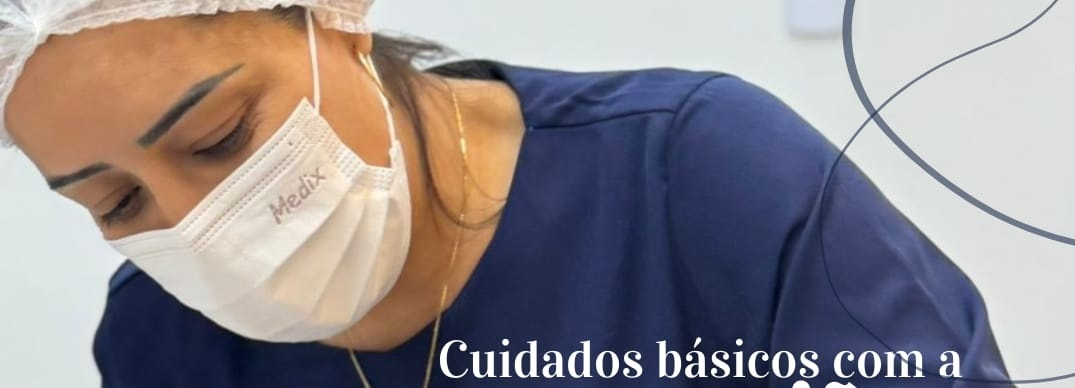
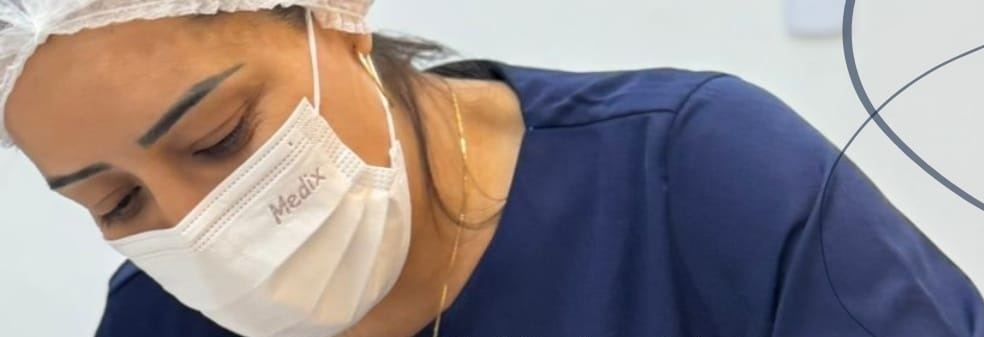
site Paula
versão final

diff --git a/index.html b/index.html
@@ -3,9 +3,21 @@
 <head>
     <meta charset="UTF-8">
     <meta name="viewport" content="width=device-width, initial-scale=1.0">
-    <title>Dra. Paula Apóstulo | Estética Facial e Íntima em Campo Grande, RJ</title>
+    <title>Dra. Paula Apóstulo | Estética Íntima e Facial em Campo Grande, RJ</title>
+    <link rel="apple-touch-icon" sizes="180x180" href="apple-touch-icon.png">
+    <link rel="icon" type="image/png" sizes="32x32" href="favicon-32x32.png">
+    <link rel="icon" type="image/png" sizes="16x16" href="favicon-16x16.png">
+    <link rel="manifest" href="site.webmanifest">
+    <link rel="shortcut icon" href="favicon.ico">
     
-    <meta name="description" content="Especialista em Estética Facial e Íntima em Campo Grande, RJ. Ninfoplastia sem cortes, Botox e rejuvenescimento. Agende com a Dra. Paula Apóstulo.">
+    <meta name="description" content="Especialista em Ninfoplastia sem cortes, Botox e Rejuvenescimento Íntimo em Campo Grande, RJ. Recupere sua autoestima com atendimento premium e resultados naturais.">
+    <meta name="keywords" content="Ninfoplastia Campo Grande RJ, Estética Íntima Feminina, Botox Campo Grande, Dra Paula Apostulo, Aplicação de Enzima para Redução de Gordura, Rejuvenescimento Facial RJ">
+
+    <meta property="og:title" content="Dra. Paula Apóstulo | Estética de Alta Performance">
+    <meta property="og:description" content="Especialista em Estética Facial e Íntima. Agende sua avaliação em Campo Grande, RJ.">
+    <meta property="og:image" content="logo-paula.jpg">
+    <meta property="og:url" content="https://paulaapostulo.com.br">
+    <meta property="og:type" content="website">
     
     <style>
         :root {
@@ -190,19 +202,28 @@
 
         /* HERO */
         .hero {
-            height: 83vh;
+
             background: var(--secondary-color);
             display: flex;
             align-items: center;
             justify-content: center;
             text-align: center;
             color: var(--primary-color);
-            padding: 0 5%;
+            padding: 0 0.5%;
+            padding-bottom: 66px;
+            padding-top: 25px;
         }
         .hero-content p { font-size: 0.9rem; margin-bottom: 5px; letter-spacing: 1px; }
         .hero-content h1 { font-size: 3.5rem; margin-bottom: 5px; font-weight: bold; text-shadow: 0 2px 10px rgba(0,0,0,0.3); }
         .hero-content .hero-subtitle { font-size: 1.4rem; color: var(--primary-color); margin-bottom: 20px; font-weight: 300; }
-        .hero-icon { max-width: 810px; border: 1px solid #C5B358; border-radius: 10px; padding: 5px; }
+        .hero-icon { 
+            max-width: 810px;
+            width: 100%;
+            height: auto; 
+            border: 1px solid #C5B358; 
+            border-radius: 10px; 
+            padding: 5px; 
+        }
 
         /* SOBRE */
         .about-section {
@@ -210,10 +231,10 @@
             background: linear-gradient(to bottom,var(--primary-color) 0%, var(--bg-warm) 100%);
         }
         .about-section h2 {
-            font-size: 2.1rem;
+            font-size: 1.6rem;
             color: var(--secondary-color);
-            margin-bottom: 20px;
-            line-height: 1.1;
+            margin-bottom: 15px;
+            line-height: 1.2;
             text-align: center;
         }
 
@@ -231,10 +252,10 @@
         .about-image {
             width: 100%;
             max-width: 450px;
-            border-radius: 8px;
+            border-radius: 7px;
             z-index: 2;
             position: relative;
-            box-shadow: 0 21px 40px rgba(88, 55, 79, 0.15);
+            box-shadow: 0 9px 21px rgba(88, 55, 79, 0.15);
         }
 
         .about-image-container::before {
@@ -242,9 +263,9 @@
             position: absolute;
             width: 100%; height: 100%; max-width: 450px;
             border: 2.5px solid var(--accent-color);
-            top: 25px; left: 50px;
+            top: 9px; left: 5px;
             z-index: 2;
-            border-radius: 8px;
+            border-radius: 7px;
         }
 
         .about-paragraph {
@@ -292,14 +313,14 @@
         .services-section {
             background-color: var(--secondary-color);
             color: white;
-            padding: 45px 5%;
+            padding: 25px 5%;
             text-align: center;
             background-image: radial-gradient(circle at 10% 20%, rgba(197, 179, 88, 0.05) 0%, transparent 20%);
         }
 
         .services-main-title {
-            font-size: 2.5rem;
-            margin-bottom: 50px;
+            font-size: 1.7rem;
+            margin-bottom: 25px;
             color: var(--primary-color);
             font-weight: 300;
         }
@@ -314,16 +335,16 @@
 
         .service-card {
             background-color: rgba(255, 255, 255, 0.03);
-            padding: 45px 35px;
+            padding: 21px 15px;
             border-radius: 15px;
             border: 1px solid rgba(232, 212, 215, 0.1);
             transition: transform 0.3s, background-color 0.3s;
         }
         
         .service-card:hover {
-            transform: translateY(-5px);
+            transform: translateY(-12px);
             background-color: rgba(255, 255, 255, 0.06);
-            border-color: var(--accent-color);
+            border: 1.2px solid var(--accent-color);
         }
 
         .card-title {
@@ -355,9 +376,9 @@
             display: inline-block;
             background: linear-gradient(45deg, var(--accent-color), #d4c062);
             color: white;
-            padding: 14px 30px;
+            padding: 6px 21px;
             text-decoration: none;
-            border-radius: 50px;
+            border-radius: 30px;
             font-weight: bold;
             margin-top: 25px;
             box-shadow: 0 4px 15px rgba(0,0,0,0.2);
@@ -367,7 +388,7 @@
 
         /* DEPOIMENTOS */
         .testimonials-section {
-            padding: 45px 5%;
+            padding: 33px 5%;
             background: linear-gradient(180deg, var(--bg-light) 0%, var(--primary-dark) 100%);
             text-align: center;
         }
@@ -443,7 +464,7 @@
 
         .map-container {
             width: 100%;
-            height: 400px;
+            height: 350px;
             background: #eee;
             border: 1.5px solid, var(--accent-color);
             box-shadow: 0 15px 30px rgba(0,0,0,0.08);
@@ -453,12 +474,12 @@
 
         .contact-info-box h3 {
             color: var(--secondary-color);
-            font-size: 1.8rem;
+            font-size: 1.5rem;
             margin-bottom: 20px;
         }
 
         .contact-details { list-style: none; margin-bottom: 30px; }
-        .contact-details li { margin-bottom: 15px; font-size: 1.1rem; color: #555; display: flex; align-items: flex-start; }
+        .contact-details li { margin-bottom: 15px; font-size: 0.99rem; color: #555; display: flex; align-items: flex-start; }
         .contact-details li strong { color: var(--secondary-color); margin-right: 8px; width: 100px; display: inline-block; }
 
         .footer {
@@ -581,7 +602,7 @@
 
     <main>
         <section id="sobre" class="about-section">
-            <h2>Sobre a Dra. Paula Apóstulo</h2>
+            <h2>Conheça a <br>Dra. Paula Apóstulo</h2>
             <div class="about-grid">
                 <div class="about-image-container">
                     <img src="foto-dra-paula-sobre.jpg" alt="Dra Paula Apóstulo" class="about-image">
@@ -665,12 +686,13 @@
             <h2 class="services-main-title" style="color: var(--secondary-color);">Onde Estamos</h2>
             <div class="contact-grid">
                 <div class="map-container">
-                    <iframe src="https://www.google.com/maps/embed?pb=!1m18!1m12!1m3!1d3675.0392470839847!2d-43.56899521114505!3d-22.91192319999999!2m3!1f0!2f0!3f0!3m2!1i1024!2i768!4f13.1!3m3!1m2!1s0x9be5d3b558157b%3A0x69174c5a62ff6f5f!2sDra.%20Paula%20Ap%C3%B3stulo%20-%20Est%C3%A9tica%20%C3%8Dntima%20e%20Facial!5e0!3m2!1spt-BR!2sbr!4v1766523336627!5m2!1spt-BR!2sbr" width="100%" height="100%" style="border:0;" allowfullscreen="" loading="lazy" referrerpolicy="no-referrer-when-downgrade"></iframe>
+                    <iframe src="https://www.google.com/maps/embed?pb=!1m18!1m12!1m3!1d3674.248238128456!2d-43.56706402377319!3d-22.91192313835694!2m3!1f0!2f0!3f0!3m2!1i1024!2i768!4f13.1!3m3!1m2!1s0x9be654d3b55815%3A0x69174c5a62ff6f5f!2sDra.%20Paula%20Ap%C3%B3stulo%20-%20Est%C3%A9tica%20%C3%8Dntima%20e%20Facial!5e0!3m2!1spt-BR!2sbr!4v1710000000000!5m2!1spt-BR!2sbr" width="100%" height="450" style="border:0;" allowfullscreen="" loading="lazy" referrerpolicy="no-referrer-when-downgrade">
+                    </iframe>
                 </div>
                 <div class="contact-info-box">
                     <h3>Atendimento Premium</h3>
                     <ul class="contact-details">
-                        <li><strong>Endereço:</strong> Rua Prof. Castilho, 431 <br>Campo Grande, Rio de Janeiro - RJ</li>
+                        <li><strong>Endereço:</strong> Rua Prof. Castilho, 431 <br>Campo Grande, <br>Rio de Janeiro - RJ</li>
                         <li><strong>WhatsApp:</strong> (21) 99662-8126</li>
                         <li><strong>Horários:</strong> Seg a Sex: 10:00 às 19:00 <br>Sábados: 09:00 às 13:00</li>
                     </ul>
@@ -682,28 +704,57 @@
 
     <footer class="footer">
         <img src="logo-paula.jpg" class="footer-logo" alt="Logo Dra Paula Apóstulo">
-        <p>© 2024 Dra. Paula Apóstulo. Todos os direitos reservados.</p>
+        <p>© 2025 Dra. Paula Apóstulo. Todos os direitos reservados.</p>
         <p style="font-size: 0.8rem; margin-top: 10px; color: var(--primary-color);">Estética Facial e Íntima Feminina  <br>em Campo Grande, RJ</p>
     </footer>
 
     <script>
-        let lastScrollTop = 0;
-        const navbar = document.getElementById("navbar");
+    const navbar = document.getElementById("navbar");
+    const mobileMenu = document.getElementById('mobileMenu');
+    const mobileBtn = document.querySelector('.mobile-menu-btn');
+    let lastScrollTop = 0;
 
-        window.addEventListener("scroll", function() {
-            let scrollTop = window.pageYOffset || document.documentElement.scrollTop;
-            if (scrollTop > lastScrollTop && scrollTop > 100) {
-                navbar.classList.add("header-hidden");
-            } else {
-                navbar.classList.remove("header-hidden");
-            }
-            lastScrollTop = scrollTop <= 0 ? 0 : scrollTop; 
-        }, false);
+    // 1. Função para abrir/fechar o menu (Já existente)
+    function toggleMenu() {
+        mobileMenu.classList.toggle('active');
+    }
 
-        function toggleMenu() {
-            document.getElementById('mobileMenu').classList.toggle('active');
+    // 2. Fechar o menu ao clicar em qualquer link (Melhora a navegação)
+    const navLinks = document.querySelectorAll('#mobileMenu .nav-links a');
+    navLinks.forEach(link => {
+        link.addEventListener('click', () => {
+            mobileMenu.classList.remove('active');
+        });
+    });
+
+    // 3. Monitor de Rolagem (Scroll)
+    window.addEventListener("scroll", function() {
+        let scrollTop = window.pageYOffset || document.documentElement.scrollTop;
+
+        // Fecha o menu mobile automaticamente ao rolar
+        if (mobileMenu.classList.contains('active')) {
+            mobileMenu.classList.remove('active');
         }
-    </script>
+
+        // Lógica de esconder/mostrar o header (Já existente)
+        if (scrollTop > lastScrollTop && scrollTop > 100) {
+            navbar.classList.add("header-hidden");
+        } else {
+            navbar.classList.remove("header-hidden");
+        }
+        lastScrollTop = scrollTop <= 0 ? 0 : scrollTop; 
+    }, { passive: true });
+
+    // 4. Fechar ao clicar fora do menu
+    document.addEventListener('click', function(event) {
+        const isClickInsideMenu = mobileMenu.contains(event.target);
+        const isClickOnButton = mobileBtn.contains(event.target);
+
+        if (!isClickInsideMenu && !isClickOnButton && mobileMenu.classList.contains('active')) {
+            mobileMenu.classList.remove('active');
+        }
+    });
+</script>
     <a href="https://wa.me/5521996628126?text=Olá%20Dra.%20Paula!%20Gostaria%20de%20tirar%20uma%20dúvida." class="whatsapp-float" target="_blank" aria-label="Falar pelo WhatsApp">
     <svg width="35" height="35" viewBox="0 0 448 512" fill="#fff" xmlns="http://www.w3.org/2000/svg">
         <path d="M380.9 97.1C339 55.1 283.2 32 223.9 32c-122.4 0-222 99.6-222 222 0 39.1 10.2 77.3 29.6 111L0 480l117.7-30.9c32.4 17.7 68.9 27 106.1 27h.1c122.3 0 224.1-99.6 224.1-222 0-59.3-25.2-115-67.1-157zm-157 341.6c-33.1 0-65.6-8.9-94-25.7l-6.7-4-69.8 18.3L72 359.2l-4.4-7c-18.5-29.4-28.2-63.3-28.2-98.2 0-101.7 82.8-184.5 184.6-184.5 49.3 0 95.6 19.2 130.4 54.1 34.8 34.9 56.2 81.2 56.1 130.5 0 101.8-84.9 184.6-186.6 184.6zm101.2-138.2c-5.5-2.8-32.8-16.2-37.9-18-5.1-1.9-8.8-2.8-12.5 2.8-3.7 5.6-14.3 18-17.6 21.8-3.2 3.7-6.5 4.2-12 1.4-5.5-2.8-23.2-8.5-44.2-27.1-16.4-14.6-27.4-32.7-30.6-38.2-3.2-5.6-.3-8.6 2.5-11.3 2.5-2.5 5.5-6.5 8.3-9.7 2.8-3.3 3.7-5.6 5.6-9.3 1.8-3.7.9-6.9-.5-9.7-1.4-2.8-12.5-30.1-17.1-41.2-4.5-10.8-9.1-9.3-12.5-9.5-3.2-.2-6.9-.2-10.6-.2-3.7 0-9.7 1.4-14.8 6.9-5.1 5.6-19.4 19-19.4 46.3 0 27.3 19.9 53.7 22.6 57.4 2.8 3.7 39.1 59.7 94.8 83.8 13.2 5.7 23.5 9.2 31.6 11.8 13.3 4.2 25.4 3.6 35 2.2 10.7-1.6 32.8-13.4 37.4-26.4 4.6-13 4.6-24.1 3.2-26.4-1.3-2.5-5-3.9-10.5-6.6z"/>
